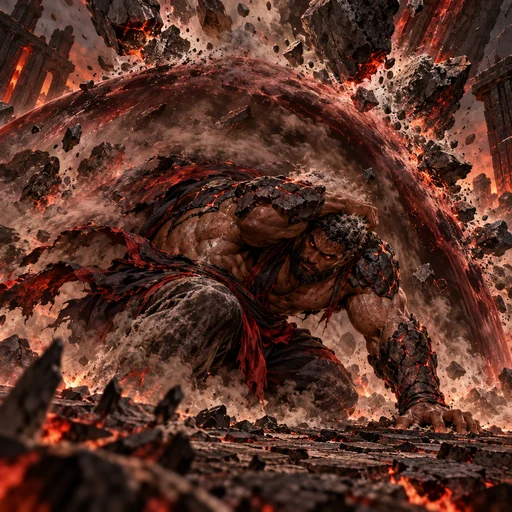
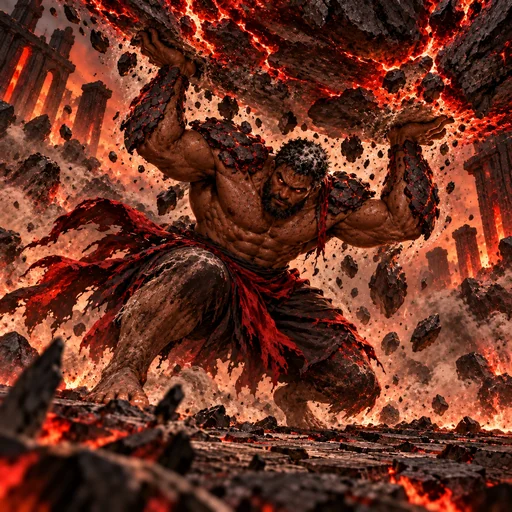
Integrate Sovereign pictorial kit and Atlas anatomy correction

diff --git a/src/character-identity.js b/src/character-identity.js
@@ -10,7 +10,7 @@ const painterlyChamaArt = new Set(['a-brasa-eterna','o-odio-encarnado']);
 const painterlyRework20261026Art = new Set(['o-falso-profeta','o-corretor-de-memorias']);
 const animeFirstRework20261026Art = new Set(['o-falso-profeta','o-corretor-de-memorias','a-pira-errante']);
 const animeFirstRework20261027Art = new Set(['o-falso-profeta','o-corretor-de-memorias','o-tecelao-de-mentiras','a-boca-de-vidro','o-incendiario','a-brasa-eterna','o-colecionador-de-cabecas','gemeos-do-cutelo','o-carrasco-sem-rosto','a-mae-rubra']);
-const animeFirstRework20261028Art = new Set(['o-acougueiro','a-viuva-escarlate','o-soberano-quebrado','a-juiza-de-ferro','o-trono-vazio']);
+const animeFirstRework20261028Art = new Set(['o-acougueiro','a-viuva-escarlate','a-juiza-de-ferro','o-trono-vazio']);
 const hybridInfernoRework20261027Art = new Set(['o-que-pesa','o-incendiario']);
 const painterlyFomeArt = new Set(['o-devorador','a-mao-que-toma','o-estomago-sem-fundo','a-senhora-do-ultimo-pao','o-credor','a-balanca-vazia']);
 const painterlySilencioArt = new Set(['o-que-observou','a-porta-fechada','o-surdo','a-testemunha-cega','o-quarto-vazio','o-vigia-ausente']);
@@ -18,7 +18,7 @@ const painterlyCarneArt = new Map([['o-que-possui','painterly-rework-20261025'],
 const painterlyPodridaoArt = new Set(['a-praga-andante','o-corrupto','a-rainha-dos-fungos']);
 const painterlyBatchArt = new Set([
   'o-acougueiro','a-viuva-escarlate','o-colecionador-de-cabecas','gemeos-do-cutelo',
-  'o-carrasco-sem-rosto','a-mae-rubra','o-soberano-quebrado','a-juiza-de-ferro',
+  'o-carrasco-sem-rosto','a-mae-rubra','a-juiza-de-ferro',
   'o-trono-vazio','o-principe-das-correntes','a-regente-de-cinzas','o-herdeiro-cativo',
   'o-sussurro','a-mascara-dupla','o-tecelao-de-mentiras','a-boca-de-vidro'
 ]);
@@ -1193,6 +1193,15 @@ export function revisedArtFor(id, art) {
       abilities:Object.fromEntries(Object.keys(art.abilities).map(slot=>[slot,`${base}/skill-${slot}.webp`])),
       ...(Object.keys(forms).length ? {forms} : {})};
   }
+  if (id === 'o-soberano-quebrado') {
+    const base = `/art/characters/${id}/dark-pictorial-rework-20261029`;
+    const forms = {...(art.forms || {})};
+    for (const slot of ['impulso','tecnica','voto']) {
+      forms[slot] = {...(forms[slot] || {}), edict:`${base}/skill-${slot}-edict.webp`};
+    }
+    return {...art,portrait:`${base}/portrait.webp`,passive:`${base}/passive.webp`,
+      abilities:Object.fromEntries(Object.keys(art.abilities).map(slot=>[slot,`${base}/skill-${slot}.webp`])),forms};
+  }
   if (animeFirstRework20261028Art.has(id)) {
     const base = `/art/characters/${id}/anime-first-rework-20261028`;
     return {...art,portrait:`${base}/portrait.webp`,passive:`${base}/passive.webp`,
@@ -1303,11 +1312,6 @@ export function revisedArtFor(id, art) {
       abilities:Object.fromEntries(Object.keys(art.abilities).map(slot=>[slot,`${base}/skill-${slot}.webp`]))};
   }
   if (['gemeos-do-cutelo','o-carrasco-sem-rosto','a-mae-rubra'].includes(id)) {
-    const base = `/art/characters/${id}/style-reference-rework-20261025`;
-    return {...art,portrait:`${base}/portrait.webp`,passive:`${base}/passive.webp`,
-      abilities:Object.fromEntries(Object.keys(art.abilities).map(slot=>[slot,`${base}/skill-${slot}.webp`]))};
-  }
-  if (id === 'o-soberano-quebrado') {
     const base = `/art/characters/${id}/style-reference-rework-20261025`;
     return {...art,portrait:`${base}/portrait.webp`,passive:`${base}/passive.webp`,
       abilities:Object.fromEntries(Object.keys(art.abilities).map(slot=>[slot,`${base}/skill-${slot}.webp`]))};

diff --git a/src/character-art-registry.js b/src/character-art-registry.js
@@ -546,6 +546,21 @@ export const characterArtRegistry = {
       "despertar": "/art/characters/baal/dark-pictorial-rework-20261029/skill-despertar.webp"
     }
   },
+  "o-soberano-quebrado": {
+    "portrait": "/art/characters/o-soberano-quebrado/dark-pictorial-rework-20261029/portrait.webp",
+    "passive": "/art/characters/o-soberano-quebrado/dark-pictorial-rework-20261029/passive.webp",
+    "abilities": {
+      "impulso": "/art/characters/o-soberano-quebrado/dark-pictorial-rework-20261029/skill-impulso.webp",
+      "tecnica": "/art/characters/o-soberano-quebrado/dark-pictorial-rework-20261029/skill-tecnica.webp",
+      "voto": "/art/characters/o-soberano-quebrado/dark-pictorial-rework-20261029/skill-voto.webp",
+      "despertar": "/art/characters/o-soberano-quebrado/dark-pictorial-rework-20261029/skill-despertar.webp"
+    },
+    "forms": {
+      "impulso": { "edict": "/art/characters/o-soberano-quebrado/dark-pictorial-rework-20261029/skill-impulso-edict.webp" },
+      "tecnica": { "edict": "/art/characters/o-soberano-quebrado/dark-pictorial-rework-20261029/skill-tecnica-edict.webp" },
+      "voto": { "edict": "/art/characters/o-soberano-quebrado/dark-pictorial-rework-20261029/skill-voto-edict.webp" }
+    }
+  },
   "atlas": {
     "portrait": "/art/characters/atlas/dark-pictorial-rework-20261029/portrait.webp",
     "passive": "/art/characters/atlas/dark-pictorial-rework-20261029/passive.webp",

diff --git a/src/data.js b/src/data.js
@@ -193,9 +193,9 @@ function slug(text) {
 
 const characterFormArt = {
   "o-soberano-quebrado": {
-    impulso: { edict: "/art/characters/o-soberano-quebrado/anime-first-rework-20261028/skill-impulso-edict.webp" },
-    tecnica: { edict: "/art/characters/o-soberano-quebrado/anime-first-rework-20261028/skill-tecnica-edict.webp" },
-    voto: { edict: "/art/characters/o-soberano-quebrado/anime-first-rework-20261028/skill-voto-edict.webp" }
+    impulso: { edict: "/art/characters/o-soberano-quebrado/dark-pictorial-rework-20261029/skill-impulso-edict.webp" },
+    tecnica: { edict: "/art/characters/o-soberano-quebrado/dark-pictorial-rework-20261029/skill-tecnica-edict.webp" },
+    voto: { edict: "/art/characters/o-soberano-quebrado/dark-pictorial-rework-20261029/skill-voto-edict.webp" }
   },
   "o-que-observou": {
     voto: { witness: "/art/characters/o-que-observou/painterly-rework-20261025/skill-voto-witness.webp" }

diff --git a/docs/ART_SOBERANO_DARK_PICTORIAL_REWORK_20261029.md b/docs/ART_SOBERANO_DARK_PICTORIAL_REWORK_20261029.md
@@ -1,0 +1,19 @@
+# O Soberano — dark fantasy pictórica — 29/10/2026
+
+**Identidade:** Astyages aparece como um manto imperial vazio, sem corpo ou rosto visível, com coroa de ferro fraturada e placas de basalto flutuantes. A paleta usa carvão, basalto, oxblood, cinza e bronze envelhecido.
+
+**Cobertura:** retrato, passiva, quatro habilidades base e três variações da Forma de Domínio. As nove artes estão integradas como candidatas e aguardam aprovação visual.
+
+| Espaço | Cena |
+|---|---|
+| Retrato | Manto vazio, coroa fraturada e placas flutuantes diante do palácio infernal em ruínas. |
+| Autoridade Estilhaçada | Seis fragmentos formam uma órbita defensiva quando o domínio é assumido. |
+| Decreto do Rei Caído | Um estilhaço e uma corrente marcam um único revenante infernal. |
+| Ajoelhar | Um inimigo marcado é puxado ao chão e forçado a se ajoelhar. |
+| Coroa sobre Ruínas | Um bulwark pessoal de basalto mostra a defesa própria e a entrada no domínio. |
+| Trono Interior | Uma barreira compacta protege apenas o Soberano contra um golpe. |
+| Decreto sobre Todos — variação | Uma onda atravessa três criaturas infernais e marca cada uma. |
+| Cadeia de Juramento — variação | Correntes prendem três criaturas; a pressão baixa seus ombros e garras. |
+| Trono Incontestável — variação | O Soberano, Pheretime e Demetrius sustentam uma laje em queda sob uma cobertura defensiva. |
+
+As imagens usam cenas e câmeras distintas, com arquitetura de pedra infernal e materiais táteis. Não alteram mecânicas. As fontes JPEG 768×768 e ativos WebP 512×512 estão listados no manifesto JSON; não há imagem aprovada nesta rodada.

diff --git a/docs/ART_REVISION_STATUS.md b/docs/ART_REVISION_STATUS.md
@@ -571,3 +571,8 @@ Nilo, Naomi, Kael, Vaas, Diana e Teras receberam seus primeiros retratos anime. 
 Retornaram mais cinco cenas: Registro Aberto, Fio de Memória e Devolver o Eco de Nilo; Brasa que Permanece e Mão Estendida de Naomi. São onze ilustrações novas nesta etapa, contando os seis retratos. Os quatro quadros de Nilo (retrato e três cenas) ainda pedem simplificação do cenário, e o retrato de Vaas pede remoção de pequenas figuras ao fundo; esses cinco itens estão marcados para correção, sem aprovação final de estilo. As duas cenas de Naomi foram revisadas.
 
 O gerador integrado devolveu HTTP 429 / usage_limit_reached e bloqueou novas chamadas. A ferramenta informou liberação em 28/10/2026 às 05:47:53 no fuso America/Recife. O trabalho não está concluído. A fila, os prompts e o bloqueio foram persistidos; há 611 posições base presentes e 312 ausentes. A presença de um arquivo provisório não equivale à conclusão visual do conjunto.
+
+
+## Correção anatômica: Atlas — 29/10/2026
+
+A arte de **Sustentar o Céu** foi substituída após a anomalia corporal identificada pelo usuário. A nova composição mostra Atlas agachado, com dois braços sustentando a laje, articulações coerentes e as pernas apoiadas. O ativo corrigido permanece pendente de aprovação visual.

diff --git a/docs/ART_ATLAS_DARK_PICTORIAL_REWORK_20261029.md b/docs/ART_ATLAS_DARK_PICTORIAL_REWORK_20261029.md
@@ -46,3 +46,8 @@ Dark fantasy pictórica densa, texturizada e material, com pincelada estilizada,
 ![Atlas — Sustentar o Céu](../art/characters/atlas/dark-pictorial-rework-20261029/skill-despertar.webp)
 
 Os ativos WebP têm 512 × 512; as fontes JPEG têm 768 × 768. Hashes e cenas estão no manifesto JSON. As seis peças permanecem candidatas e aguardam revisão visual final.
+
+
+## Correção anatômica — Sustentar o Céu — 29/10/2026
+
+Após a observação de anomalia corporal, a cena foi refeita com Atlas em agachamento baixo e dois braços sustentando a laje. A nova imagem deixa a continuidade do tronco, os ombros, os cotovelos e o apoio das pernas mais claros. O WebP ativo foi substituído; a correção continua candidata à aprovação visual.
